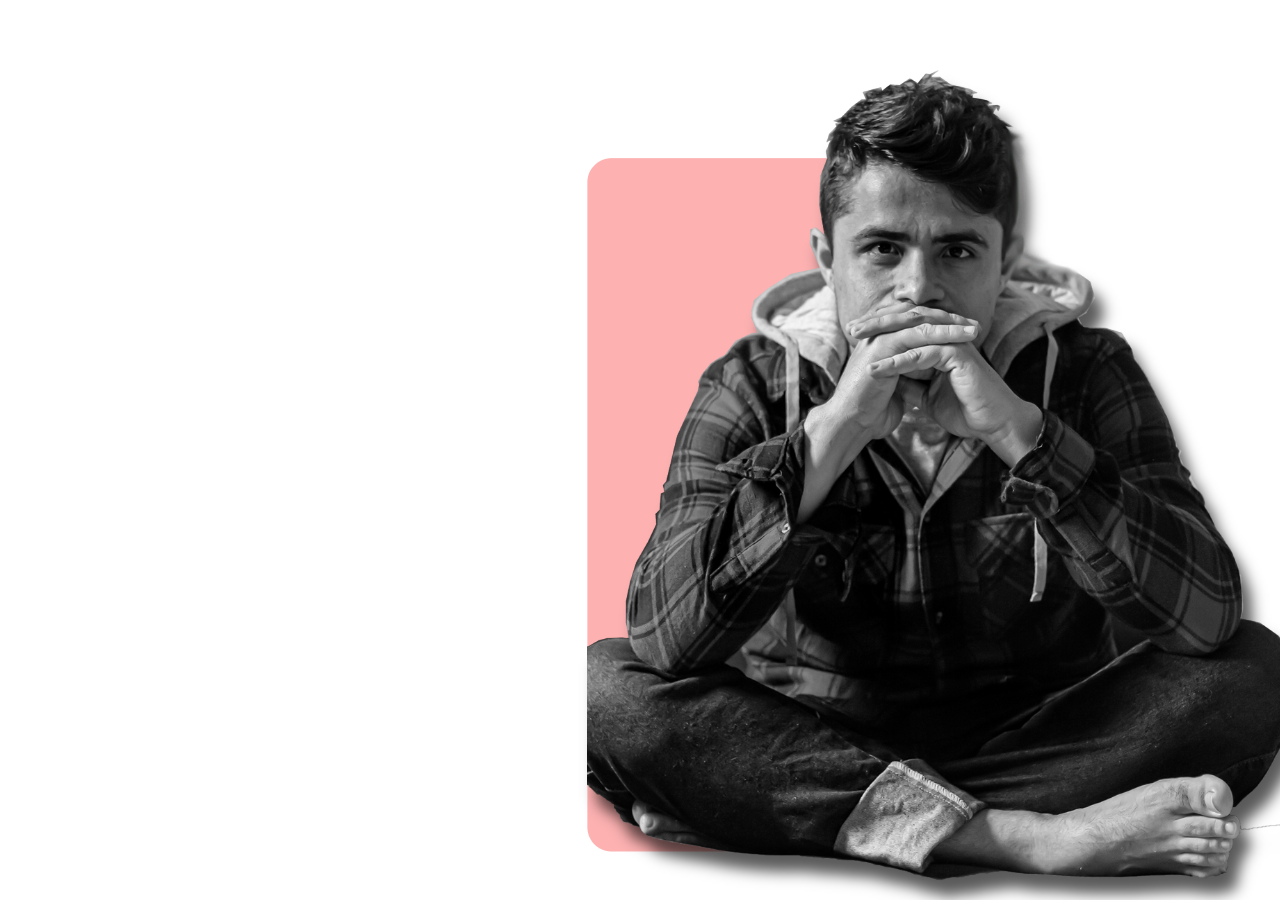
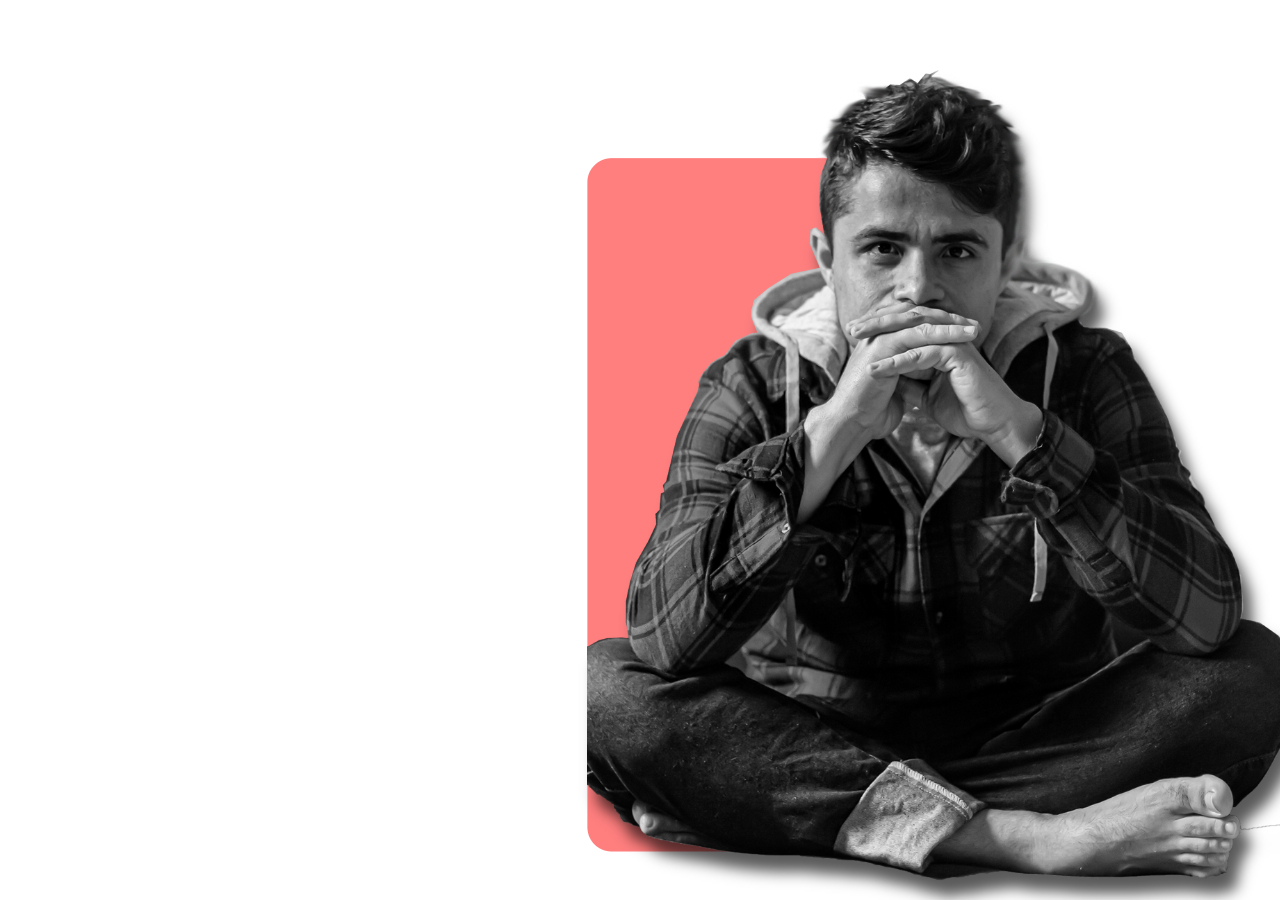
fundo&efeito 16-06-2020
mudei o fundo, posicionamento e arrumei o efeito....ainda falta mudar o tempo do efeito puff do dino e alguns ajustes

diff --git a/index.html b/index.html
@@ -62,7 +62,8 @@
     <!---------------------sobre----------------->
 
     <div id="bio" class="content">
-        <img class="card-img" src="img/espaco.jpg" alt="espaço">
+        <img class="card-img" src="img/espaco1.jpg" alt="espaço">
+
         <div class="sobre">
             <h5 class="card-title">Biografia</h5>
             <p class="card-text">Mussum Ipsum, cacilds vidis litro abertis. A ordem dos tratores não altera o pão duris. Quem num gosta di mim que vai caçá sua turmis! Per aumento de cachacis, eu reclamis. Nec orci ornare consequat. Praesent lacinia ultrices consectetur. Sed non ipsum felis.
@@ -70,9 +71,10 @@
                 Praesent malesuada urna nisi, quis volutpat erat hendrerit non. Nam vulputate dapibus. Quem manda na minha terra sou euzis! Mais vale um bebadis conhecidiss, que um alcoolatra anonimis. Suco de cevadiss, é um leite divinis, qui tem lupuliz, matis, aguis e fermentis.</p>
 
         </div>
+
     </div>
 
-    <img id="nodino" class="nodino " src="img/LogoDino.png" alt="No Dino">
+    <img type="button" id="nodino" class="nodino btn" src="img/LogoDino.png" alt="No Dino">
 
 
     <!---------------------Outro Modal------------------------->

diff --git a/css/main.css b/css/main.css
@@ -49,9 +49,9 @@ html {
     opacity: 1;
     transform: translate3d(0, 0, 0);
     position: absolute;
-    top: -13%;
+    top: -2%;
     z-index: inherit;
-    height: 100%;
+    height: 130%;
     width: 100%;
 
 
@@ -63,7 +63,7 @@ html {
     background-color: rgb(255, 252, 252, 0.5);
     position: relative;
     left: 1%;
-    bottom: 97%;
+    bottom: 67%;
     border-radius: 1%;
     height: 50%;
     width: 50%;
@@ -80,8 +80,8 @@ html {
     background-size: cover;
     position: fixed;
     z-index: 4;
-    left: 53%;
-    top: 1%;
+    left: 56%;
+    top: 3%;
 }
 
 

diff --git a/js/main.js b/js/main.js
@@ -49,14 +49,15 @@ debounce = function (func, wait, immediate) {
             }
         });
     };
+
+    $(function () {
+        $(".nodino").toggle("puff");
+    });
     $('#btn1').click(function () {
         animeScroll();
-        /* $(".nodino").toggle("puff");*/
+        $(".nodino").toggle("puff");
         $('.container-fluid').hide('slow');
 
     });
 
 })();
-$(document).click(function () {
-    $(".nodino").toggle("puff");
-});
